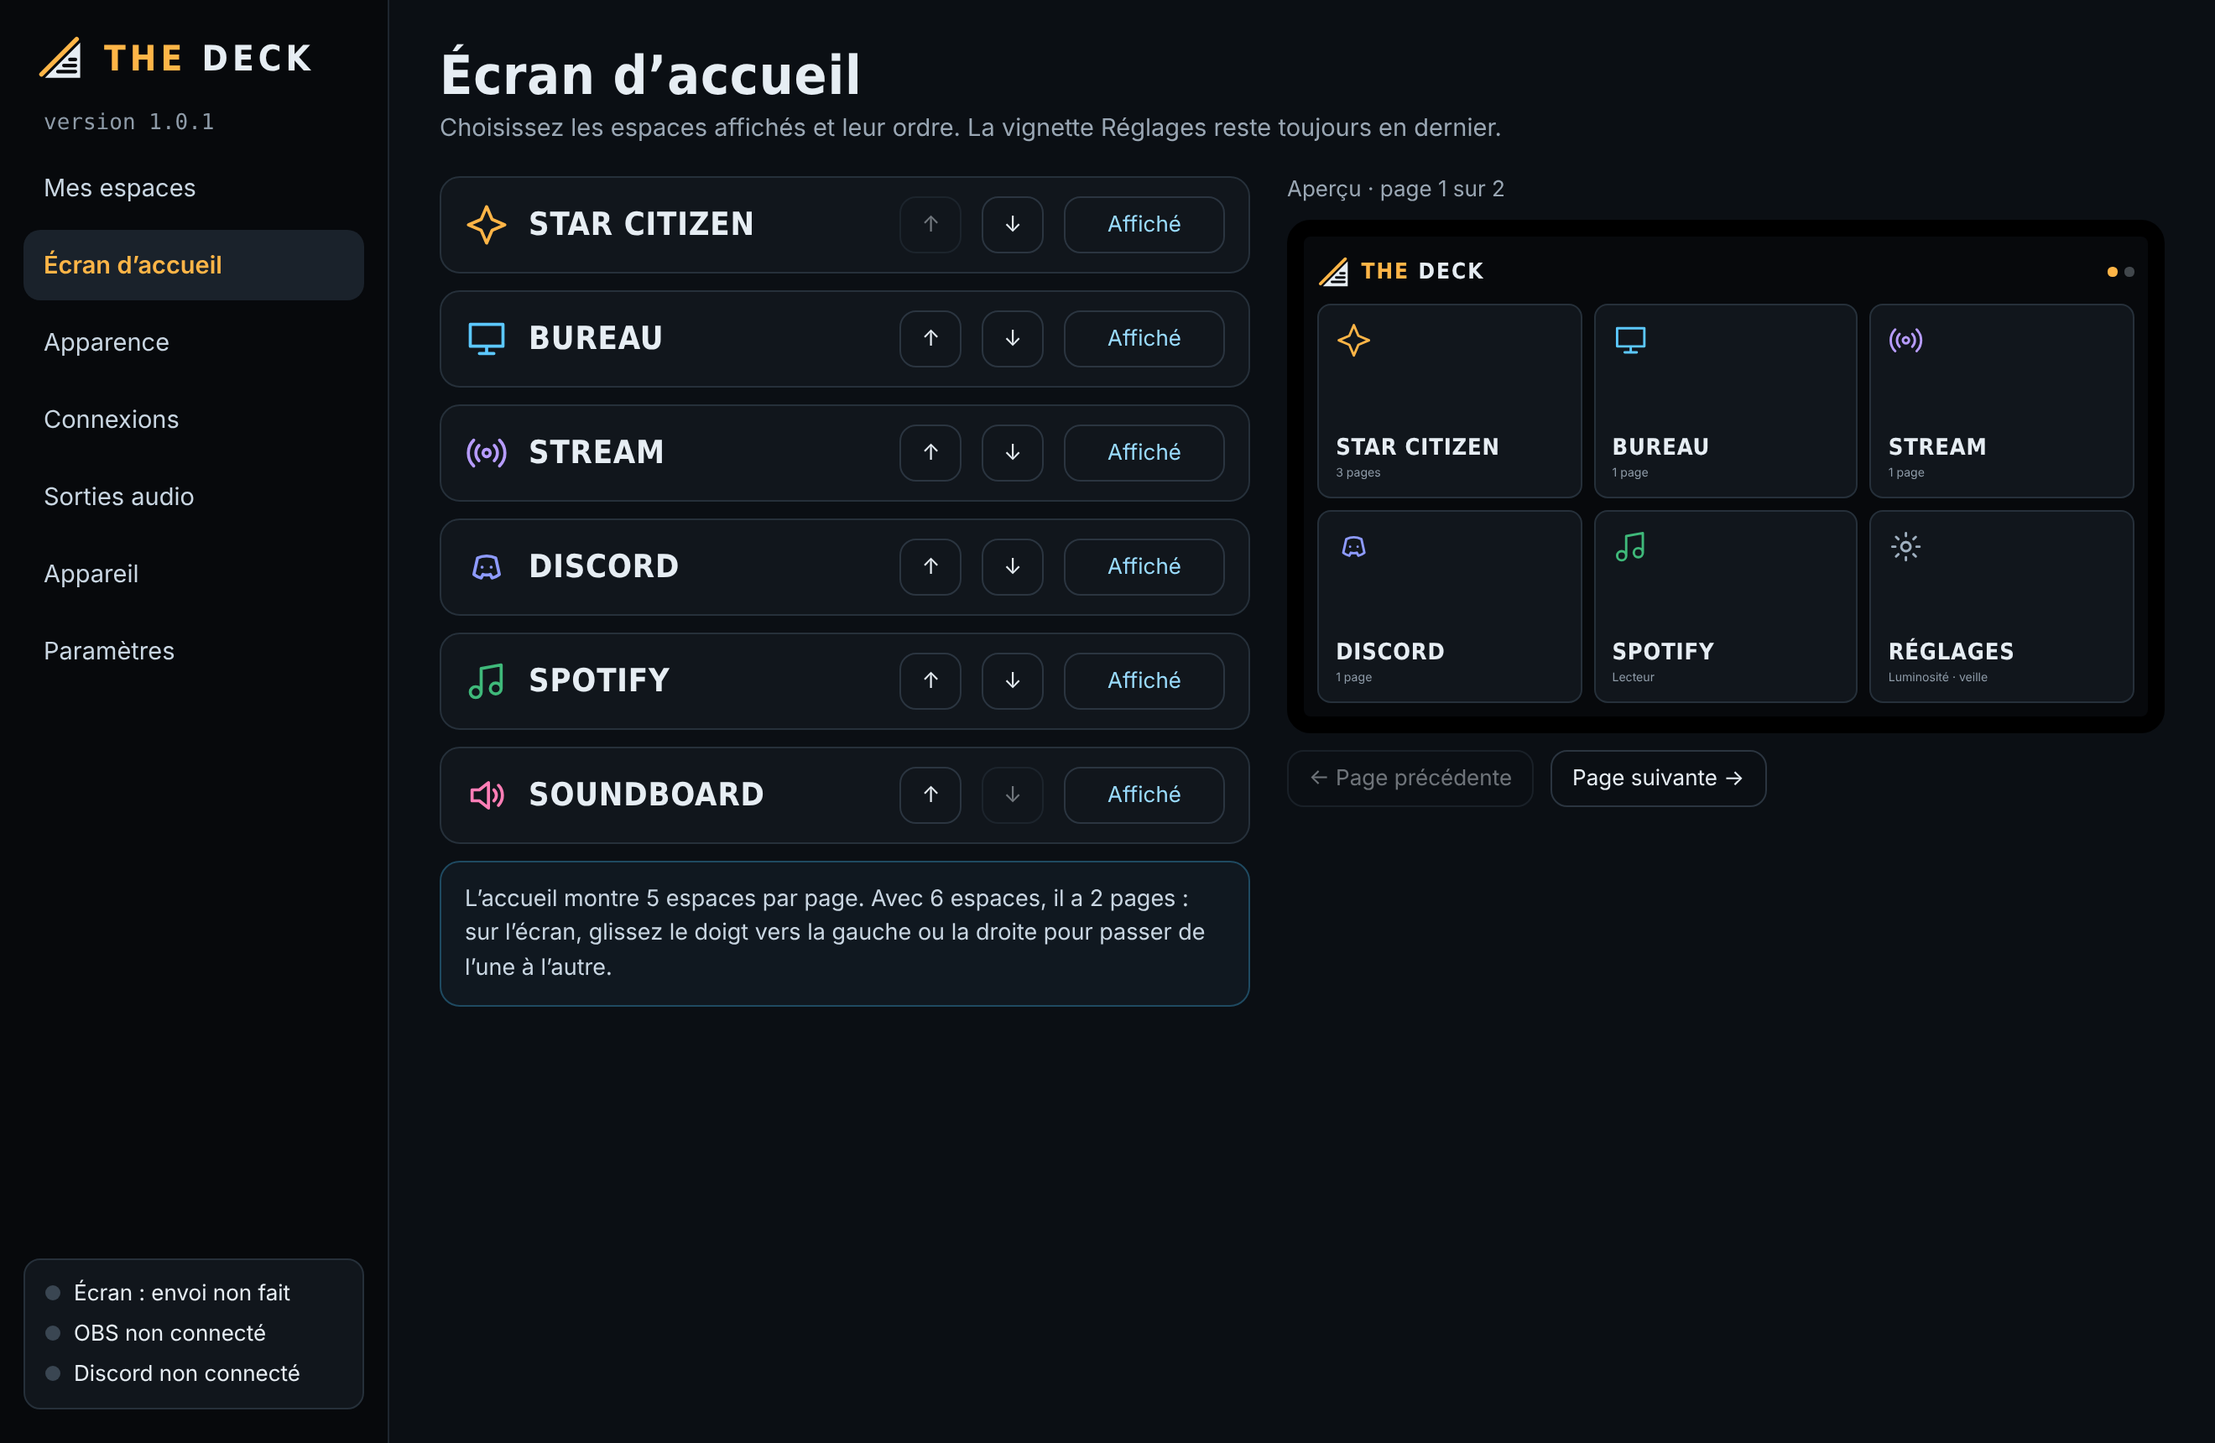
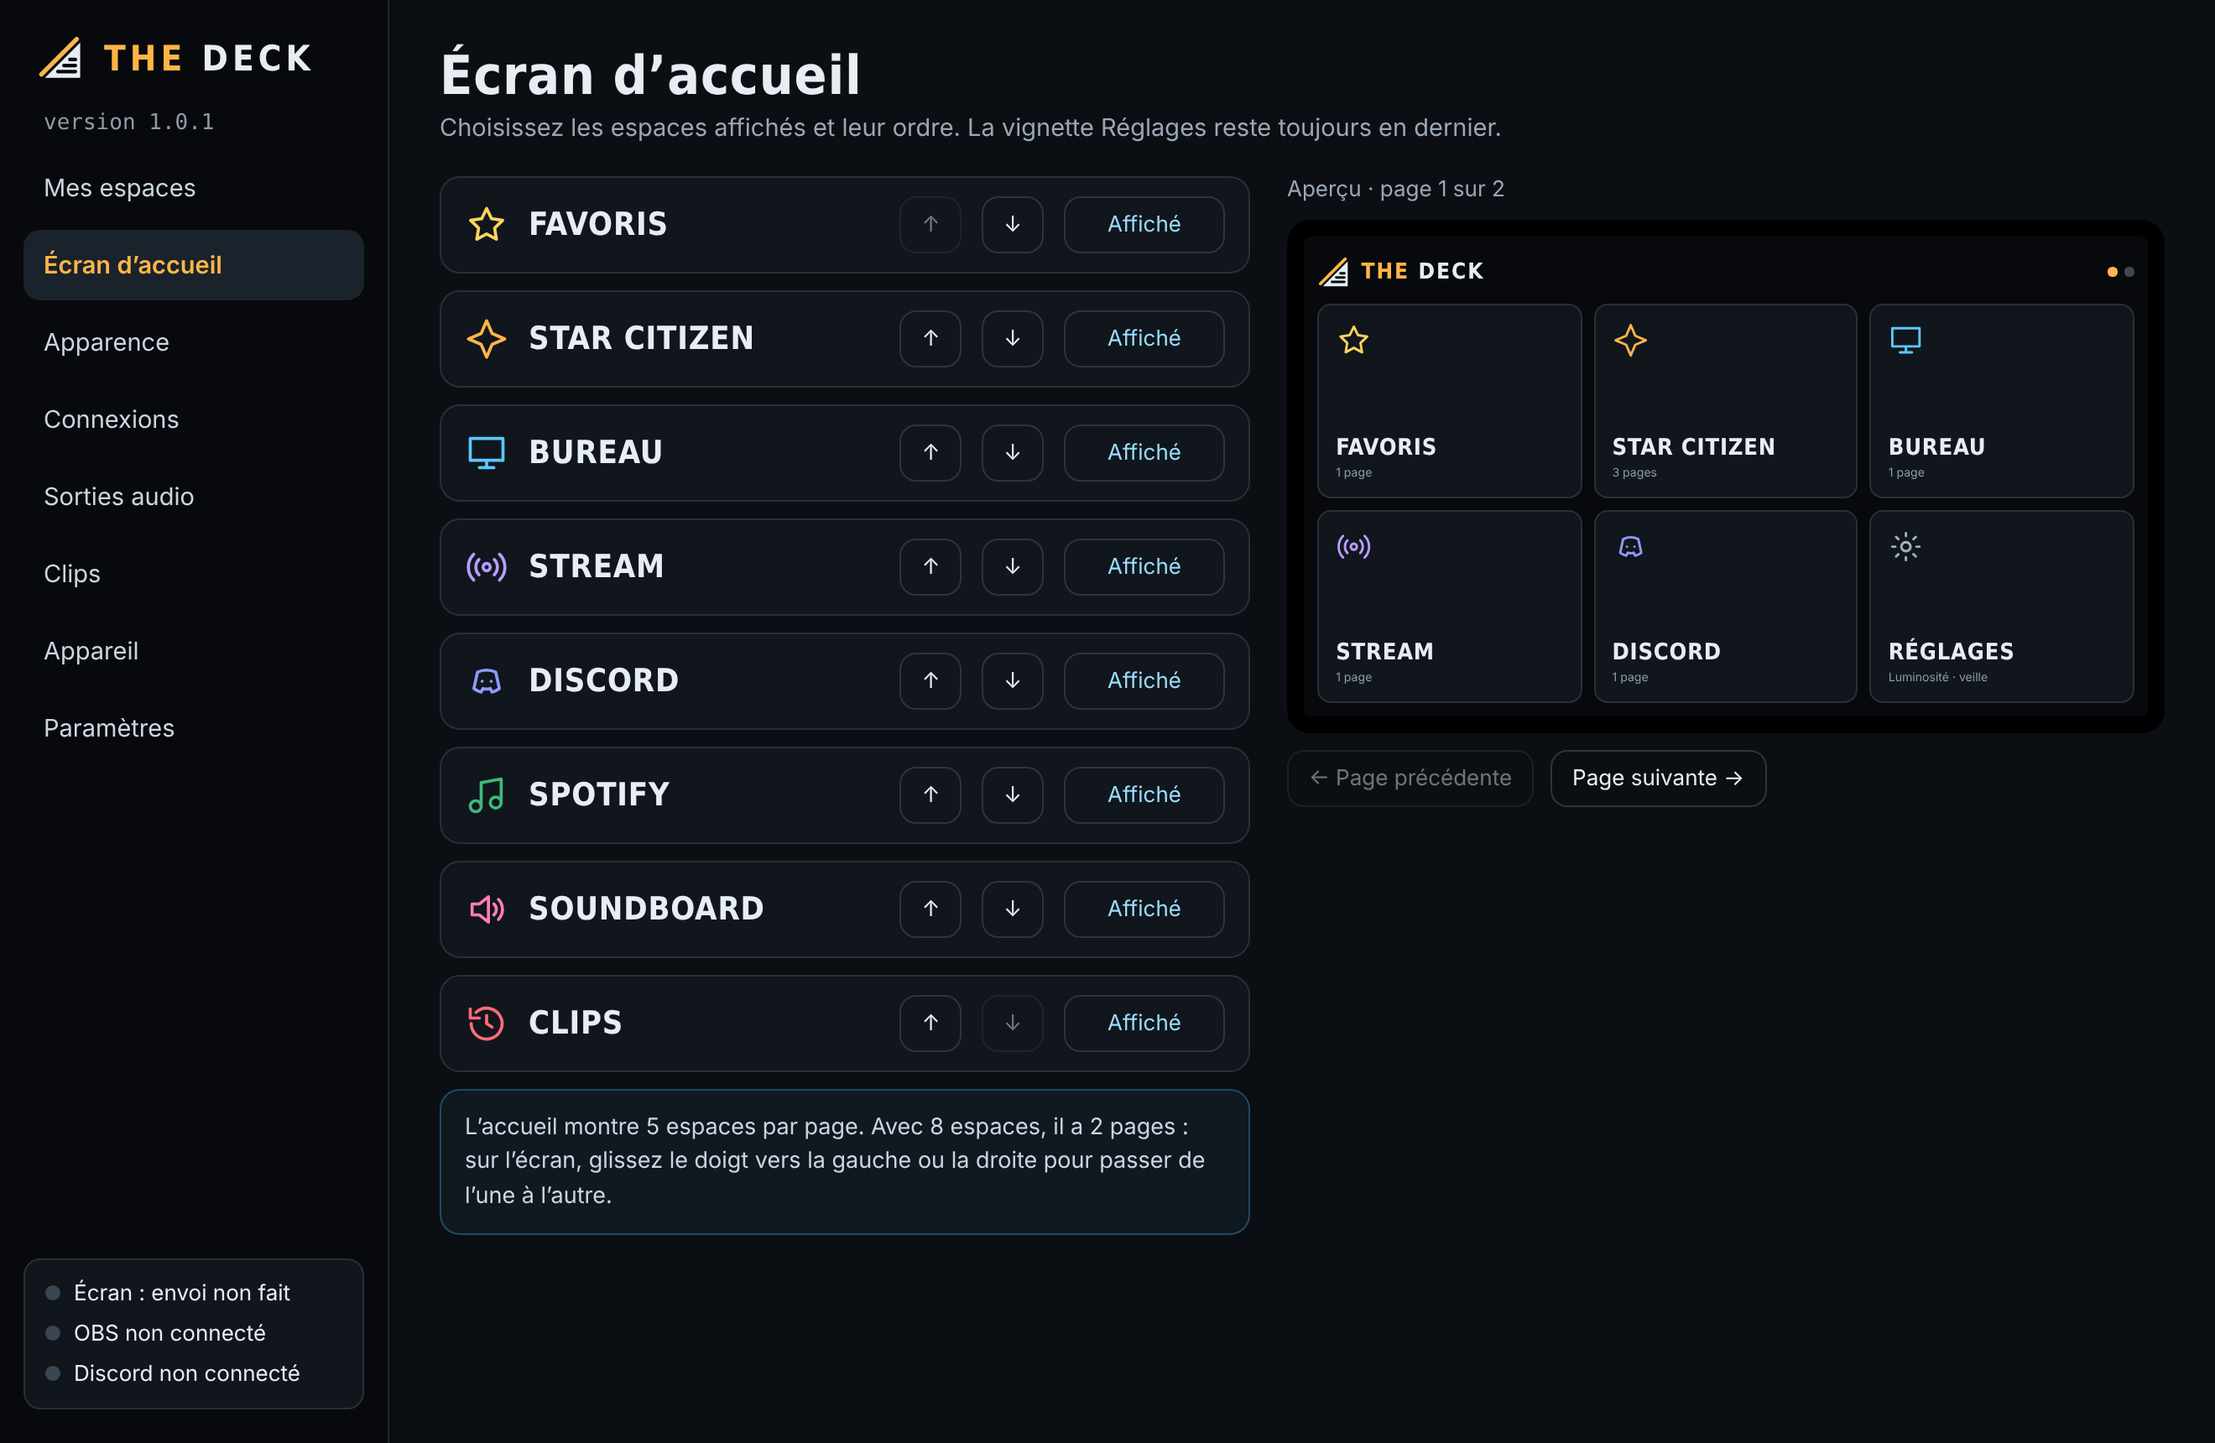
Version 1.1.1 : notice (Favoris, déplacer une case, qualité des clips)
Claude-Session: https://claude.ai/code/session_01WSUxM3wXybuHYypv1iCiiE

diff --git a/tools/notice/captures-favoris.js b/tools/notice/captures-favoris.js
@@ -1,0 +1,71 @@
+// Captures du chapitre « Favoris et déplacement des cases » (version 1.1.1)
+const { chromium } = require('playwright');
+const OUT = require('path').join(__dirname, 'img') + '/';
+const STUB = `
+(() => {
+  let store = null; const L = [];
+  const thumb = (c1, c2) => { const c = document.createElement('canvas'); c.width = 320; c.height = 180; const x = c.getContext('2d'); const g = x.createLinearGradient(0,0,320,180); g.addColorStop(0,c1); g.addColorStop(1,c2); x.fillStyle=g; x.fillRect(0,0,320,180); return c.toDataURL('image/jpeg'); };
+  const now = Date.now();
+  window.deck = {
+    loadConfig: async () => store, saveConfig: async (c) => { store = JSON.parse(JSON.stringify(c)); return true; },
+    createBackup: async () => 'x', listBackups: async () => [], readBackup: async () => null, openBackupsFolder: async () => null,
+    exportSpace: async () => null, importSpace: async () => null, chooseExe: async () => null,
+    runApp: async () => ({ ok: true, message: '' }), version: async () => '1.1.1', env: async () => ({}), setStartWithWindows: async (on) => on,
+    setShortcuts: async () => ({}), onShortcut: () => {},
+    discordConnect: async () => ({ status: 'off' }), discordDisconnect: async () => ({ status: 'off' }), discordState: async () => ({ status: 'off' }),
+    discordRun: async () => ({ ok: true, message: '' }), onDiscordState: () => {},
+    mediaWatch: async () => true, mediaKey: async () => true, onMediaState: () => {},
+    clipsConfig: async (c) => ({ available: true, capturing: true, running: true, starting: false, waiting: false, paused: !!c.paused, when: c.when, rec: { on: false, since: 0 }, enc: { label: 'NVIDIA', gpu: true }, target: 'Star Citizen', game: 'Star Citizen', buffer: 60, folder: 'C:\\\\Users\\\\Clément\\\\Videos\\\\The Deck\\\\Clips', screens: [{ i: 0, primary: true, w: 2560, h: 1440 }, { i: 1, primary: false, w: 1920, h: 1080 }], error: '' }),
+    clipsState: async () => ({ available: true }),
+    clipsAction: async (op) => { if (op === 'clip') { setTimeout(() => L.forEach(f => f({ kind: 'clip', file: 'C:/x/n.mp4', name: 'Star Citizen 2026-10-27 19h12.mp4', game: 'Star Citizen', dur: 60, thumb: thumb('#5a2','#e83'), when: Date.now() })), 300); return { ok: true }; } return { ok: true, rec: true }; },
+    clipsAudio: (k, d) => { window.__aud = (window.__aud||0) + 1; window.__len = d.length; }, clipsScreenSource: async () => '',
+    clipsList: async () => ({ folder: 'x', total: 4.2e9, free: 312e9, count: 9, items: [
+      ['clip','Star Citizen',0.02,60,190e6,'#3B2A8F','#E0533D'],['clip','Star Citizen',0.04,30,95e6,'#0E4D64','#7CC4FF'],['capture','Star Citizen',0.045,null,3e6,'#3A2A10','#FFB547'],
+      ['video','Star Citizen',0.08,1452,2.6e9,'#1B3A2A','#3FB97A'],['clip','Écran',1.1,120,380e6,'#2A1530','#FF7EB6'],['clip','Star Citizen',1.2,60,190e6,'#15202B','#8E9BFF']
+    ].map((r, i) => ({ file: 'C:/x/' + i + '.mp4', name: r[1] + ' 2026-10-2' + (7 - Math.floor(r[2])) + ' 18h' + (10 + i) + (r[0]==='video'?' (vidéo)':'') + (r[0]==='capture'?'.png':'.mp4'), kind: r[0], game: r[1], dur: r[3], size: r[4], when: now - r[2] * 86400000, thumb: thumb(r[5], r[6]) })) }),
+    clipsOpenFolder: async () => null, clipsShow: async () => null, clipsCopy: async () => ({ ok: true }), clipsDelete: async () => ({ ok: true }), clipsRename: async () => ({ ok: true }), clipsTrim: async () => ({ ok: true }), clipsFileUrl: async () => '', clipsChooseFolder: async () => null,
+    onClipsState: () => {}, onClipsSaved: (f) => L.push(f)
+  };
+})();`;
+(async () => {
+  const b = await chromium.launch();
+  const p = await b.newPage({ viewport: { width: 1320, height: 1000 }, deviceScaleFactor: 2 });
+  await p.addInitScript(STUB);
+  const errs = []; p.on('pageerror', e => errs.push(e.message));
+  await p.goto(require('url').pathToFileURL(require('path').resolve(__dirname, '../../src/index.html')).href); await p.waitForTimeout(900);
+  // quelques favoris : une case Star Citizen, Discord, un clip et un son
+  await p.evaluate(() => {
+    const add = (s, pi, ci) => { ui.spaceId = s.id; ui.page = pi; ui.cell = ci; ui.view = 'editeur'; toggleFav(); };
+    const by = (k) => cfg.spaces.find(k);
+    const sc = by(s => s.name === 'Star Citizen'), dc = by(s => s.category === 'discord'), sb = by(s => s.layout === 'soundboard');
+    [0, 3, 6].forEach(i => add(sc, 0, i));
+    add(sc, 1, 0);
+    const di = dc.pages[0].cells.findIndex(Boolean); if (di >= 0) add(dc, 0, di);
+    sc.pages[2].cells[14] = cell('Clip', 'retour', { type: 'clip', op: 'clip' }, { mode: 'tap', holdMs: 1500 }, '#FF6B79'); add(sc, 2, 14);
+    sb.pages[0].cells[0] = newSoundCell('Airhorn', 'C:/Sons/airhorn.mp3'); sb.pages[0].cells[0].action.dur = 2.4; add(sb, 0, 0);
+    // la case sélectionnée pour la capture du bouton
+    ui.spaceId = sc.id; ui.page = 0; ui.cell = 0; ui.view = 'editeur'; commit();
+  });
+  await p.addStyleTag({ content: '.toast, .toasts, #toasts { display: none !important; }' });
+  await p.waitForTimeout(400);
+  await p.setViewportSize({ width: 1320, height: 1700 }); await p.waitForTimeout(200);
+  const pb = await (await p.$('.panel:has([data-act="cell-fav"])')).boundingBox();
+  const rb = await (await p.$('.panel [data-act="cell-fav"]')).boundingBox();
+  const lb = await (await p.$('#f-type')).boundingBox();
+  await p.screenshot({ path: OUT + 'fav-bouton.png', clip: { x: pb.x, y: lb.y - 40, width: pb.width, height: rb.y + rb.height + 24 - (lb.y - 40) } });
+  await p.setViewportSize({ width: 1320, height: 1000 });
+  // l'espace Favoris
+  await p.evaluate(() => { ui.spaceId = favSpace().id; ui.page = 0; ui.cell = null; ui.view = 'editeur'; window.scrollTo(0, 0); render(); });
+  await p.waitForTimeout(400);
+  await p.screenshot({ path: OUT + 'favoris.png', clip: { x: 232, y: 0, width: 1088, height: 560 } });
+  // déplacer une case : en plein glissement
+  await p.evaluate(() => { document.querySelector('.tabs').scrollIntoView(); });
+  const a = await (await p.$('.grid .ecell[data-drag="1"]')).boundingBox(), c = await (await p.$('.grid .ecell[data-drag="7"]')).boundingBox();
+  await p.mouse.move(a.x + 40, a.y + 40); await p.mouse.down(); await p.waitForTimeout(450);
+  await p.mouse.move(c.x + 50, c.y + 30, { steps: 12 }); await p.waitForTimeout(150);
+  const g = await (await p.$('.gridwrap')).boundingBox();
+  await p.screenshot({ path: OUT + 'deplacer.png', clip: { x: g.x - 10, y: g.y - 10, width: g.width + 20, height: g.height - 30 } });
+  await p.mouse.up();
+  console.log('ERR', errs);
+  await b.close();
+})();

diff --git a/tools/notice/notice.html b/tools/notice/notice.html
@@ -52,7 +52,7 @@ th { background: #F1F4F7; font-weight: 600; }
     <h1>Notice d’utilisation du logiciel</h1>
     <p>Préparez vos espaces, vos pages et vos cases sur le PC, puis envoyez-les sur l’écran tactile The Deck pour piloter vos jeux, votre bureau, votre stream, Discord et votre musique.</p>
   </div>
-  <div class="meta">Logiciel version 1.1.0 · octobre 2026</div>
+  <div class="meta">Logiciel version 1.1.1 · octobre 2026</div>
 </div>
 
 <div class="section">
@@ -95,8 +95,8 @@ th { background: #F1F4F7; font-weight: 600; }
     <li>En bas de la page, dans <b>Artifacts</b>, cliquez sur <b>The-Deck-Windows</b>. Un fichier zip se télécharge.</li>
     <li>Décompressez-le. Vous y trouvez deux fichiers :
       <ul>
-        <li><span class="k">The-Deck-Installation-1.1.0.exe</span> : installe le logiciel, avec un raccourci sur le bureau. <b>C’est celui à utiliser.</b></li>
-        <li><span class="k">The-Deck-Portable-1.1.0.exe</span> : se lance directement, sans installation.</li>
+        <li><span class="k">The-Deck-Installation-1.1.1.exe</span> : installe le logiciel, avec un raccourci sur le bureau. <b>C’est celui à utiliser.</b></li>
+        <li><span class="k">The-Deck-Portable-1.1.1.exe</span> : se lance directement, sans installation.</li>
       </ul></li>
     <li>Lancez l’installation et suivez les étapes.</li>
   </ol>
@@ -172,7 +172,20 @@ th { background: #F1F4F7; font-weight: 600; }
     <tr><td><b>Discord</b></td><td>Voir le chapitre 10.</td></tr>
     <tr><td><b>Changer de page</b></td><td>Aller à une autre page de l’espace, ou revenir à l’accueil.</td></tr>
   </table>
-  <div class="tip"><b>Astuces</b>Faites glisser une case sur une autre pour les échanger. Le bouton <b>Tester</b> essaie tout de suite les actions faites par le PC (appli, OBS, Discord). Tout est enregistré automatiquement.</div>
+  <div class="tip"><b>Astuces</b>Le bouton <b>Tester</b> essaie tout de suite les actions faites par le PC (appli, OBS, Discord, clips). Tout est enregistré automatiquement.</div>
+  <h3>Déplacer une case</h3>
+  <p>Restez appuyé sur une case (souris ou doigt) : elle se soulève. Gardez appuyé, faites-la glisser, puis relâchez à la place voulue : les deux cases échangent leur place. Relâchée sur un <b>onglet de page</b>, elle part dans cette page, à la première place libre. Ça ne marche que dans le logiciel, pas sur l’écran du Deck.</p>
+  <figure class="half"><img src="img/deplacer.png" alt="Une case déplacée dans l’éditeur"><figcaption>La case « VTOL » soulevée, en train d’être posée sur une autre place.</figcaption></figure>
+  <h3>Favoris</h3>
+  <p>L’espace <b>Favoris</b> (étoile, en premier sur l’accueil) rassemble vos cases préférées, quel que soit leur espace : une touche de Star Citizen, le micro Discord, un clip, un son de la soundboard…</p>
+  <ol>
+    <li>Ouvrez l’espace d’origine et cliquez sur la case.</li>
+    <li>En bas de ses réglages, cliquez sur <b>☆ Ajouter aux favoris</b>. Une copie va tout de suite dans Favoris, à la première place libre (une nouvelle page est créée si besoin). Le bouton devient <b>★ Dans les favoris</b> ; un nouveau clic retire la copie.</li>
+    <li>Dans l’espace Favoris, rangez les cases comme vous voulez (voir « Déplacer une case »).</li>
+  </ol>
+  <div class="tip"><b>Bon à savoir</b>La copie est indépendante : si vous modifiez la case d’origine, retirez-la des favoris puis ajoutez-la à nouveau. Un son copié part toujours vers les sorties cochées sur la soundboard au moment de la copie.</div>
+  <figure class="half"><img src="img/fav-bouton.png" alt="Bouton Ajouter aux favoris"><figcaption>Le bouton, en bas des réglages de la case.</figcaption></figure>
+  <figure><img src="img/favoris.png" alt="L’espace Favoris"><figcaption>L’espace Favoris : des cases de Star Citizen, Discord, Clips et Soundboard réunies.</figcaption></figure>
   <figure><img src="img/combos.png" alt="Combinaisons photo, pictogramme et nom"><figcaption>Photo + pictogramme + nom, photo + nom, photo + pictogramme, photo seule, nom seul, et deux contours de couleur (rose, vert).</figcaption></figure>
   <figure class="half"><img src="img/picto.png" alt="Catalogue de pictogrammes"><figcaption>Le catalogue de pictogrammes, avec recherche et catégories.</figcaption></figure>
 </div>
@@ -370,7 +383,7 @@ th { background: #F1F4F7; font-weight: 600; }
   <ul>
     <li><b>Retour en arrière</b> : la durée gardée par CLIP. À côté, la place prise sur le disque pendant le jeu, et la taille d’un clip. La mémoire s’efface au fur et à mesure : elle ne grossit jamais.</li>
     <li><b>Ce qu’on filme</b> : <b>Le jeu</b> (la fenêtre du jeu en cours, sans les notifications ni Discord ; sans jeu lancé, l’écran principal), <b>Écran entier</b>, ou <b>Choisir un écran</b>.</li>
-    <li><b>Qualité</b> : 720p, 1080p ou 1440p, à 30 ou 60 images par seconde. Changer ce réglage vide la mémoire.</li>
+    <li><b>Qualité</b> : 1080p, 1440p, 1800p ou 4K, à 60, 120 ou 144 images par seconde. 1800p, 4K, 120 et 144 images/s ne servent que si votre écran (et le jeu) va jusque-là ; les fichiers sont alors bien plus gros. Bon compromis pour un jeu rapide : 1440p à 144 images/s. Changer ce réglage vide la mémoire.</li>
     <li><b>Son dans les clips</b> : le son du PC, votre voix, et les sons de la soundboard joués avec la case « Stream ».</li>
     <li><b>Mémoire en marche</b> : <b>Toujours</b>, <b>Pendant un jeu</b> (quand un jeu de « Mes espaces » est lancé, d’après le programme indiqué dans l’espace), ou <b>Jamais</b> (seule ENREGISTRER filme).</li>
     <li><b>Dossier</b> : l’ouvrir, ou en choisir un autre.</li>

diff --git a/tools/notice/captures-clips.js b/tools/notice/captures-clips.js
@@ -10,7 +10,7 @@ const STUB = `
     loadConfig: async () => store, saveConfig: async (c) => { store = JSON.parse(JSON.stringify(c)); return true; },
     createBackup: async () => 'x', listBackups: async () => [], readBackup: async () => null, openBackupsFolder: async () => null,
     exportSpace: async () => null, importSpace: async () => null, chooseExe: async () => null,
-    runApp: async () => ({ ok: true, message: '' }), version: async () => '1.1.0', env: async () => ({}), setStartWithWindows: async (on) => on,
+    runApp: async () => ({ ok: true, message: '' }), version: async () => '1.1.1', env: async () => ({}), setStartWithWindows: async (on) => on,
     setShortcuts: async () => ({}), onShortcut: () => {},
     discordConnect: async () => ({ status: 'off' }), discordDisconnect: async () => ({ status: 'off' }), discordState: async () => ({ status: 'off' }),
     discordRun: async () => ({ ok: true, message: '' }), onDiscordState: () => {},
@@ -51,7 +51,7 @@ const STUB = `
   await p.dispatchEvent('#sim [data-simclip="dur"]', 'pointerdown'); await p.waitForTimeout(200);
   console.log('dur after', await p.evaluate(() => cfg.clips.dur));
   // case clip dans Star Citizen
-  await p.evaluate(() => { ui.modal = null; const s = cfg.spaces[0]; s.pages[0].cells[14] = cell('Clip', 'retour', { type: 'clip', op: 'clip' }, { mode: 'tap', holdMs: 1500 }, '#FF6B79'); ui.spaceId = s.id; ui.page = 0; ui.cell = 14; ui.view = 'editeur'; commit(); });
+  await p.evaluate(() => { ui.modal = null; const s = cfg.spaces.find(s => s.name === 'Star Citizen'); s.pages[0].cells[14] = cell('Clip', 'retour', { type: 'clip', op: 'clip' }, { mode: 'tap', holdMs: 1500 }, '#FF6B79'); ui.spaceId = s.id; ui.page = 0; ui.cell = 14; ui.view = 'editeur'; commit(); });
   await p.setViewportSize({ width: 1320, height: 1080 }); await p.waitForTimeout(200);
   await p.waitForTimeout(400);
   await p.screenshot({ path: OUT + 'clips-case.png' });

diff --git a/tools/notice/shots.js b/tools/notice/shots.js
@@ -33,7 +33,7 @@ const STUB = `
   });
   await shot('espaces', { fullPage: false });
   // éditeur Star Citizen, case sélectionnée
-  const sc = await p.evaluate(() => cfg.spaces[0].id);
+  const sc = await p.evaluate(() => cfg.spaces.find(s => s.name === 'Star Citizen').id);
   await p.click(`[data-act="open-space"][data-id="${sc}"]`); await p.waitForTimeout(200);
   await p.click('[data-act="cell"][data-i="1"]'); await shot('editeur');
   await p.click('[data-act="picto-open"]'); await shot('picto'); await p.keyboard.press('Escape');
